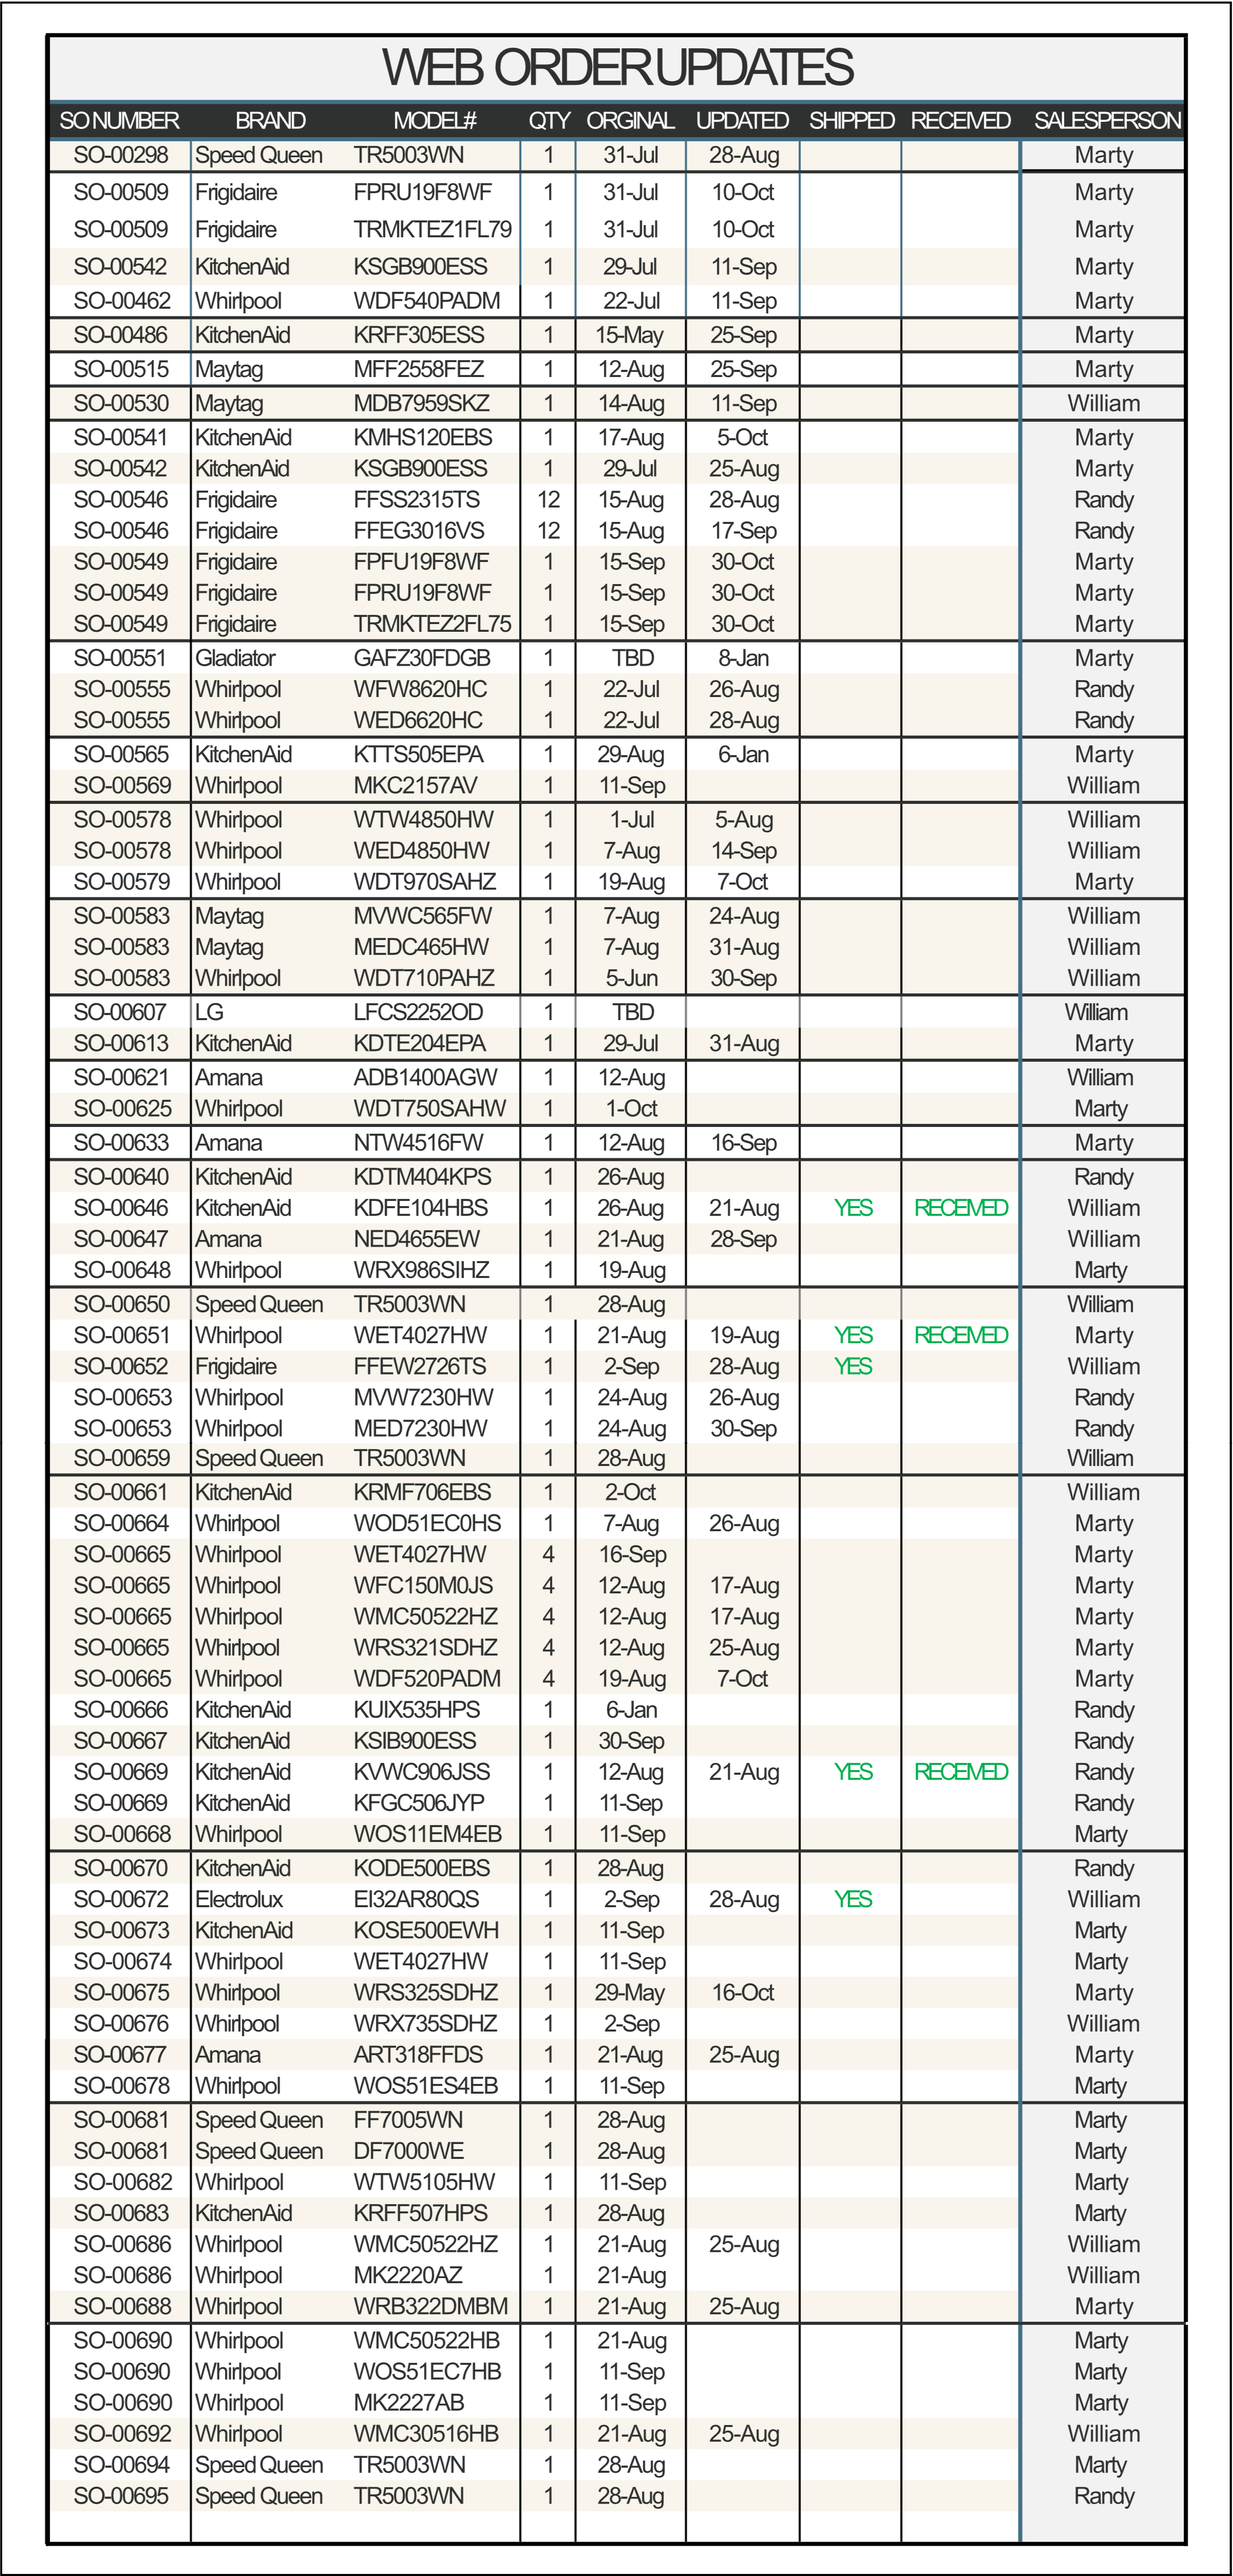
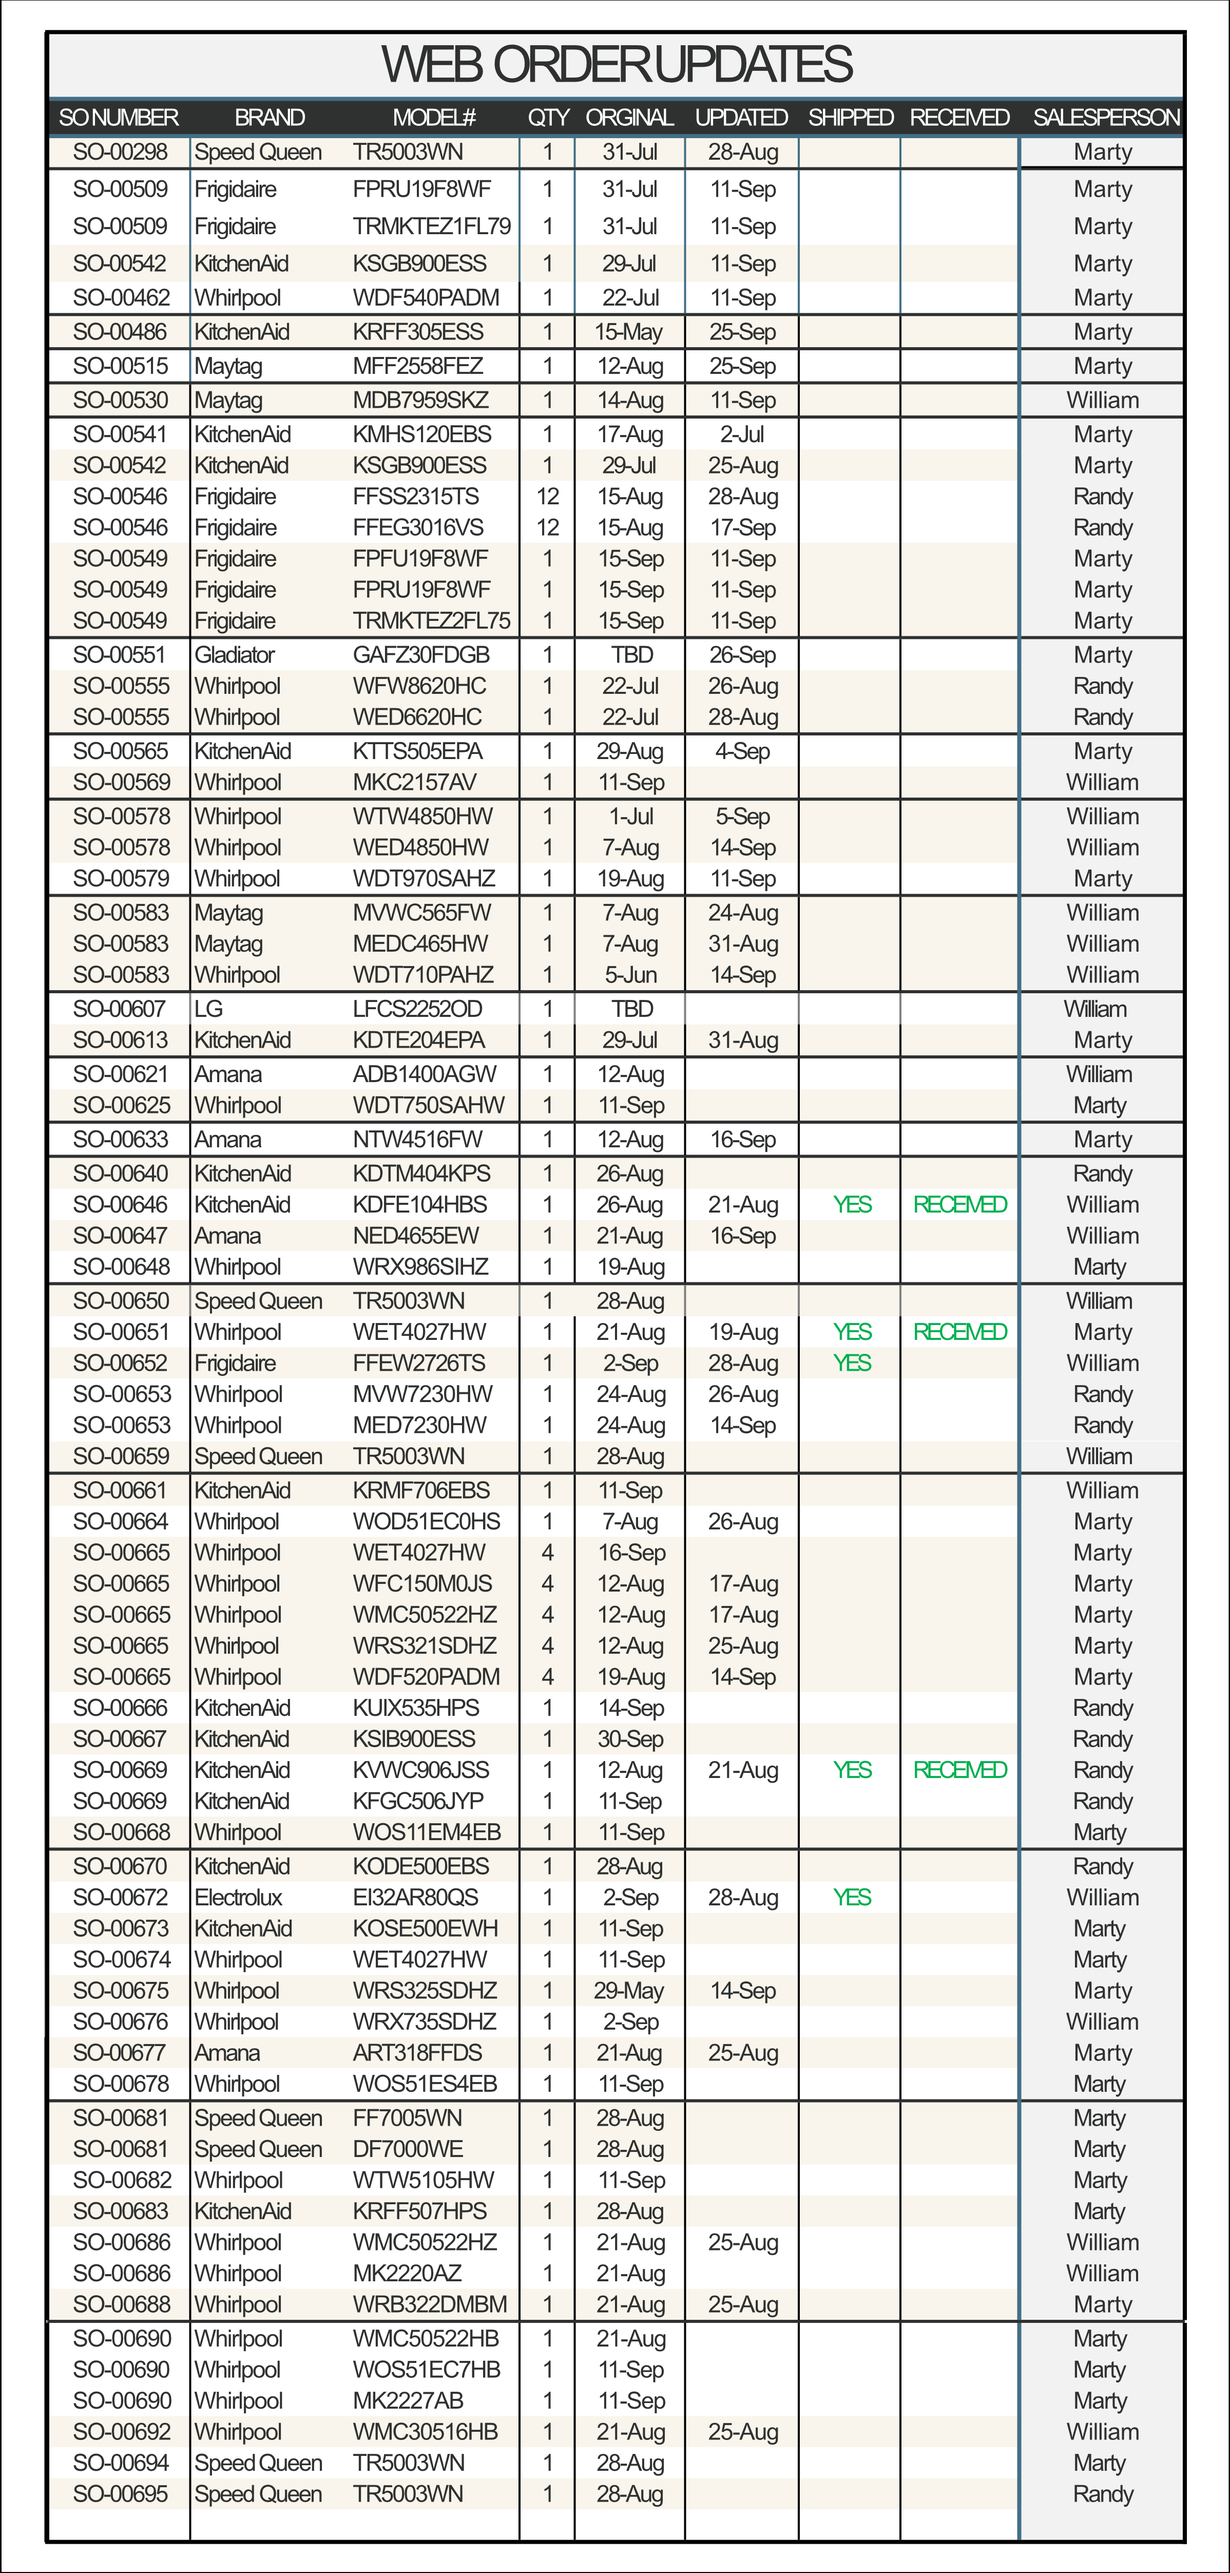
Update Tracker and Update Notice Language
updated the tracker and the language of the notice to the copy provided by Randy

diff --git a/notice.html b/notice.html
@@ -60,7 +60,7 @@
       <div class="row justify-content-center">
         <div class="col-sm-2"></div>
         <div class="col-sm-8">
-        <p class="h4">Due to the effects of COVID-19, the entirety of the appliance industry is experiencing a supply chain interruption.  Regional Distribution and Manufacturing inventory quantities    are exhausted and not projected to return to pre-COVID levels until early 2021.  As a result, product backorders are to be expected with longer than usual wait times experienced.</p>
+        <p class="h4">Due to the effects of COVID-19, the entirety of the appliance industry is experiencing supply chain interruptions. Manufacturing, Regional Distribution, and Local Dealer inventory quantities are limited and not projected to return to pre-COVID levels until early 2021. As a result, product backorders are to be expected with longer than usual wait times experienced. </p>
         </div>
         <div class="col-sm-2"></div>
       </div>
@@ -68,18 +68,18 @@
       <div class="row justify-content-center">
         <div class="col-sm-2"></div>
         <div class="col-sm-8">
-          <p>The supply chain challenges our industry is experiencing are due to many significant factors, all stemming from COVID-19.  An example of the issue occurs when a positive COVID test causes the random closing of a manufacturing facility, which in most cases, can last for up to two weeks.  These unexpected closures cause significant delays affecting the entire distribution channel and, ultimately, end-customer delivery.</p>
-          <p>Another factor in the supply chain challenge is the impact COVID-19 has on product shipping.  The pandemic is affecting the ability of the freight carriers nationwide to maintain an adequate workforce that can deliver products to the regional distribution points, and the dealer networks they service.  We are and will continue to experience random freight delays that occur without notice. </p>
+          <p>The supply chain challenges our industry is experiencing are due to many significant factors, all stemming from COVID-19.  An example of the issue occurs when a positive COVID test causes the random closing of a manufacturing facility, which in most cases, can last for up to two weeks. These unexpected closures cause significant delays affecting the entire distribution channel and, ultimately, end-customer delivery.</p>
+          <p>Another factor in the supply chain challenge is the impact COVID-19 has on product shipping. The pandemic is affecting the ability of the freight carriers nationwide to maintain an adequate workforce that can deliver products to the regional distribution points, and the dealer networks they service.  We are and will continue to experience random freight delays that occur without notice. </p>
         </div>
         <div class="col-sm-2"></div>
       </div>
-
+<hr>
       <div class="row justify-content-center">
         <div class="col-sm-2"></div>
         <div class="col-sm-8">
-          <p>Bayne HomeWorks understands and sincerely appreciates the patience and understanding of our customers during this unique and challenging point in time.  We have created a password-protected web page giving those customers (who have a pending order) the ability to check on the status of their items.  </p>
-          <p>We update product status each day and post changes before noon CST.  </p>
-          <p>When the manufacturer notifies us of an item status change, our Bayne HomeWorks logistics team will send the customer both a text and an email message alerting them of the update. </p>
+          <p>Bayne HomeWorks understands and sincerely appreciates the patience and understanding of our customers during this unique and challenging point in time.  We have created a password-protected web page giving those customers (who have a pending order) the ability to check on the status of their items.</p>
+          <p>If you are a current customer experiencing a product delay, please call <a href="tel:2813328000">(281) 332-8000</a> to request your <strong>Order Tracker Login</strong>.  Then visit <a href="https://bayneworks.github.io/index.html">Our Tracker</a> to track your order. You will need your <strong>SALES ORDER NUMBER</strong> to find the items associated with your transaction.</p>
+          <p>As a manufacturer or distributor notifies us of an item status change, our Bayne HomeWorks logistics team will send both a text and an email message alerting you of the change. We update product status each day and post changes before noon CST.</p>
         </div>
         <div class="col-sm-2"></div>
       </div>
@@ -103,7 +103,7 @@
       <div class="row justify-content-center">
         <div class="col-sm-2"></div>
         <div class="col-sm-8">
-          <p>On behalf of your Bayne HomeWorks team, thank you for your patience and understanding as together we work to navigate these new and ever-changing waters.</p>
+          <p>On behalf of your Bayne HomeWorks team, thank you for your patience and understanding as we work together to navigate these new and ever-changing times.</p>
           <p>Kind Regards, </p>
           <p>Randy Bayne<br>
           Chairman & CEO<br>

diff --git a/index.html b/index.html
@@ -68,7 +68,7 @@ body {
 					<div class="box">
 			    		<div class="container text-center">
 					      <h2 class="text"><strong>PRODUCT AVAILABILITY NOTICE</strong></h2>
-					      <p class="h4 text">Due to the effects of COVID-19, the entirety of the appliance industry is experiencing a supply chain interruption.  Regional Distribution and Manufacturing inventory quantities are exhausted and not projected to return to pre-COVID levels until early 2021.  As a result, product backorders are to be expected with longer than usual wait times experienced.</p>
+					      <p class="h4 text">Due to the effects of COVID-19, the entirety of the appliance industry is experiencing supply chain interruptions. Manufacturing, Regional Distribution, and Local Dealer inventory quantities are limited and not projected to return to pre-COVID levels until early 2021. As a result, product backorders are to be expected with longer than usual wait times experienced. </p>
 					      <p class="lead"><a href="notice.html">Read the full statement here</a></p>
 					    </div>
 					</div>
